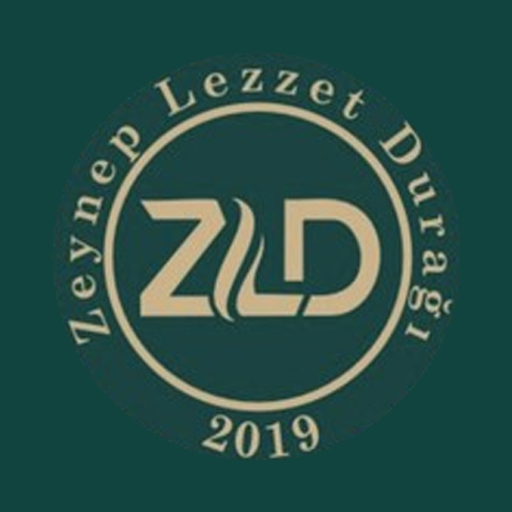
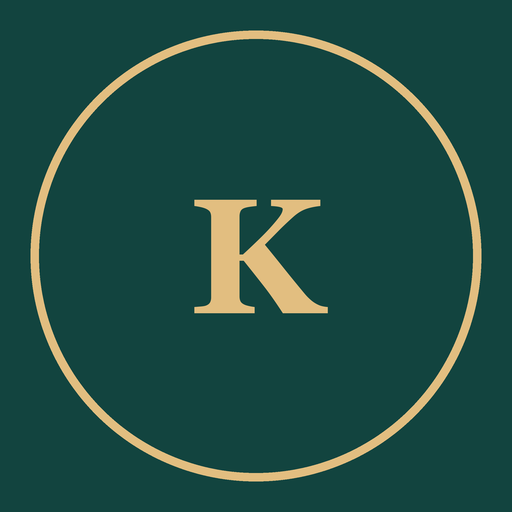
Anonymize the café demo
Replace the café's name, logo and app icons with a generic "Örnek Kafe",
remove its WhatsApp number, Instagram link and map search, and hide the
WhatsApp and directions buttons when no number or map link is set.

Changed region(s): [[0.0312, 0.0312, 0.9688, 0.9688]]

diff --git a/zld/siparis.html b/zld/siparis.html
@@ -1,7 +1,7 @@
 <!doctype html>
 <html lang="tr">
 <head>
-<meta name="zld-surum" content="202610041620">
+<meta name="zld-surum" content="202610062014">
 <meta charset="utf-8">
 <meta name="viewport" content="width=device-width, initial-scale=1, viewport-fit=cover">
 <meta name="theme-color" content="#12443f">
@@ -9,22 +9,22 @@
 <link rel="preconnect" href="https://fonts.googleapis.com">
 <link rel="preconnect" href="https://fonts.gstatic.com" crossorigin>
 <link href="https://fonts.googleapis.com/css2?family=Alegreya:wght@500;700;800&family=Figtree:wght@400;500;600;700&display=swap" rel="stylesheet">
-<link rel="stylesheet" href="ortak/app.css?v=202610041620">
+<link rel="stylesheet" href="ortak/app.css?v=202610062014">
 <script src="https://cdn.jsdelivr.net/npm/@supabase/supabase-js@2"></script>
-<script src="ortak/menu.js?v=202610041620"></script>
+<script src="ortak/menu.js?v=202610062014"></script>
 <link rel="manifest" href="manifest.webmanifest">
 <link rel="apple-touch-icon" href="apple-touch-icon.png">
-<title>Zeynep Lezzet Durağı | Gel Al</title>
+<title>Örnek Kafe | Gel Al</title>
 <meta name="robots" content="noindex">
-<meta name="description" content="Siparişinizi önceden verin, saatinizi seçin, Zeynep Lezzet Durağı'ndan hazır teslim alın.">
+<meta name="description" content="Siparişinizi önceden verin, saatinizi seçin, dükkândan hazır teslim alın.">
 </head>
 <body>
 <div class="wrap">
   <header class="top">
     <div class="brand">
-      <img src="logo.png" alt="Zeynep Lezzet Durağı logosu" width="68" height="68">
+      <img src="logo.png" alt="" width="68" height="68">
       <div>
-        <h1>Zeynep Lezzet Durağı</h1>
+        <h1>Örnek Kafe</h1>
         <p>Gel Al siparişi</p>
       </div>
     </div>
@@ -64,7 +64,7 @@
           <input id="jn" type="text" autocomplete="name" placeholder="Ayşe Yılmaz">
           <label for="jp">Telefon</label>
           <input id="jp" type="tel" inputmode="tel" autocomplete="tel" placeholder="05xx xxx xx xx">
-          <label class="consent"><input id="jc" type="checkbox"> <span>Kampanya ve indirimlerden WhatsApp/SMS ile haberdar olmak için adımın ve telefonumun Zeynep Lezzet Durağı tarafından saklanmasına <a href="kvkk.html#riza" target="_blank">açık rıza</a> veriyorum.</span></label>
+          <label class="consent"><input id="jc" type="checkbox"> <span>Kampanya ve indirimlerden WhatsApp/SMS ile haberdar olmak için adımın ve telefonumun işletme tarafından saklanmasına <a href="kvkk.html#riza" target="_blank">açık rıza</a> veriyorum.</span></label>
           <p class="err" id="jerr" role="alert"></p>
           <button class="btn-gold" type="submit">Kampanyalara katıl</button>
         </form>
@@ -73,7 +73,6 @@
 
       <footer class="foot">
         <p>Borcam kapları için 500 TL, baklava tepsileri için 200 TL depozito alınır. Kabı geri getirdiğinizde depozito iade edilir.</p>
-        <p><a href="https://wa.me/905444628015">WhatsApp: 0544 462 80 15</a> &nbsp; <a href="https://instagram.com/zeyneplezzetduragi">Instagram</a></p>
         <p class="foot-eve">Eve teslimat: <span id="footEve"></span></p>
       </footer>
   </main>
@@ -119,7 +118,7 @@
         <p class="dep" id="leadNote"></p>
       </fieldset>
 
-      <p class="pickup-warn">Bu sipariş adrese getirilmez. Seçtiğiniz saatte <b>Zeynep Lezzet Durağı'na gelip kendiniz alırsınız.</b></p>
+      <p class="pickup-warn">Bu sipariş adrese getirilmez. Seçtiğiniz saatte <b>dükkâna gelip kendiniz alırsınız.</b></p>
       <label for="on">Adınız</label>
       <input id="on" type="text" autocomplete="name">
       <label for="op">Telefonunuz</label>
@@ -288,6 +287,7 @@ function paintStatus(o){
   $("steps").querySelectorAll("li").forEach((li, i) => { li.className = i < idx ? "done" : i === idx ? "now" : ""; });
   const total = o.order_items.reduce((a, i) => a + i.price * i.qty, 0);
   $("okText").innerHTML = o.order_items.map(i => `${i.qty} × ${esc(itemLabel(i.name, i.option))}`).join("<br>") + `<br><b>Toplam ${tl(total)}</b>, ödeme teslimde.`;
+  $("okWa").hidden = !ZLD.WA; $("okWa").style.display = ZLD.WA ? "" : "none";
   $("okWa").href = `https://wa.me/${ZLD.WA}?text=${encodeURIComponent(`Merhaba, ${o.customer_name} adına ${slotLabel(o.pickup_time)} arası gel al siparişim var.`)}`;
 }
 async function showStatus(id){
@@ -314,7 +314,7 @@ $("okBack").onclick = () => { closeSheet(); $("okBox").hidden = true; $("orderFo
 
 $("gheroSteps").innerHTML = GELAL_ADIM;
 $("eve").innerHTML = teslimatHTML();
-$("gheroMap").href = $("okMap").href = ZLD.HARITA;
+if(ZLD.HARITA){ $("gheroMap").href = $("okMap").href = ZLD.HARITA; } else { $("gheroMap").style.display = $("okMap").style.display = "none"; }
 view.render(); updateBar();
 loadPrices().then(() => { view.render(); updateBar(); });
 watchPrices(() => { view.render(); updateBar(); });
@@ -330,7 +330,7 @@ function paintInstall(){
   $("insBody").innerHTML = installEvt
     ? `<p>Gel Al siparişlerinizi tek dokunuşla verin. Mağazadan indirmek gerekmez.</p><button type="button" class="btn gold" id="insGo">Ana ekrana ekle</button>`
     : isIOS()
-    ? `<ol><li>Ekranın altındaki ${share} <b>Paylaş</b> simgesine dokunun.</li><li>Listeden <b>Ana Ekrana Ekle</b>'yi seçin.</li><li>Sağ üstte <b>Ekle</b>'ye dokunun.</li></ol><p class="dep">Zeynep Lezzet simgesi ana ekranınıza gelir, uygulama gibi açılır.</p>`
+    ? `<ol><li>Ekranın altındaki ${share} <b>Paylaş</b> simgesine dokunun.</li><li>Listeden <b>Ana Ekrana Ekle</b>'yi seçin.</li><li>Sağ üstte <b>Ekle</b>'ye dokunun.</li></ol><p class="dep">Uygulama simgesi ana ekranınıza gelir, uygulama gibi açılır.</p>`
     : `<p>Tarayıcınızın menüsünü (sağ üstteki ⋮) açın ve <b>Ana ekrana ekle</b> ya da <b>Uygulamayı yükle</b>'yi seçin.</p>`;
 }
 $("install").addEventListener("click", async e => {

diff --git a/zld/index.html b/zld/index.html
@@ -1,7 +1,7 @@
 <!doctype html>
 <html lang="tr">
 <head>
-<meta name="zld-surum" content="202610041620">
+<meta name="zld-surum" content="202610062014">
 <meta charset="utf-8">
 <meta name="viewport" content="width=device-width, initial-scale=1, viewport-fit=cover">
 <meta name="theme-color" content="#12443f">
@@ -9,12 +9,12 @@
 <link rel="preconnect" href="https://fonts.googleapis.com">
 <link rel="preconnect" href="https://fonts.gstatic.com" crossorigin>
 <link href="https://fonts.googleapis.com/css2?family=Alegreya:wght@500;700;800&family=Figtree:wght@400;500;600;700&display=swap" rel="stylesheet">
-<link rel="stylesheet" href="ortak/app.css?v=202610041620">
+<link rel="stylesheet" href="ortak/app.css?v=202610062014">
 <script src="https://cdn.jsdelivr.net/npm/@supabase/supabase-js@2"></script>
-<script src="ortak/menu.js?v=202610041620"></script>
-<title>Zeynep Lezzet Durağı | Menü</title>
+<script src="ortak/menu.js?v=202610062014"></script>
+<title>Örnek Kafe | Menü</title>
 <meta name="robots" content="noindex">
-<meta name="description" content="Zeynep Lezzet Durağı menüsü ve güncel fiyatlar.">
+<meta name="description" content="Örnek kafe menüsü ve güncel fiyatlar.">
 <link rel="manifest" href="manifest.webmanifest">
 <link rel="apple-touch-icon" href="apple-touch-icon.png">
 </head>
@@ -22,10 +22,10 @@
 <div class="wrap">
   <header class="top">
     <div class="brand">
-      <img src="logo.png" alt="Zeynep Lezzet Durağı logosu" width="68" height="68">
+      <img src="logo.png" alt="" width="68" height="68">
       <div class="brand-t">
-        <h1>Zeynep Lezzet Durağı</h1>
-        <p>Sakarya ev yemekleri</p>
+        <h1>Örnek Kafe</h1>
+        <p>Ev yemekleri</p>
       </div>
       <span class="masa-plate" id="masaBadge" hidden><small>Masa</small><b id="masaNo"></b></span>
     </div>
@@ -58,7 +58,7 @@
           <input id="jn" type="text" autocomplete="name" placeholder="Ayşe Yılmaz">
           <label for="jp">Telefon</label>
           <input id="jp" type="tel" inputmode="tel" autocomplete="tel" placeholder="05xx xxx xx xx">
-          <label class="consent"><input id="jc" type="checkbox"> <span>Kampanya ve indirimlerden WhatsApp/SMS ile haberdar olmak için adımın ve telefonumun Zeynep Lezzet Durağı tarafından saklanmasına <a href="kvkk.html#riza" target="_blank">açık rıza</a> veriyorum.</span></label>
+          <label class="consent"><input id="jc" type="checkbox"> <span>Kampanya ve indirimlerden WhatsApp/SMS ile haberdar olmak için adımın ve telefonumun işletme tarafından saklanmasına <a href="kvkk.html#riza" target="_blank">açık rıza</a> veriyorum.</span></label>
           <p class="err" id="jerr" role="alert"></p>
           <button class="btn-gold" type="submit">Kampanyalara katıl</button>
         </form>
@@ -67,7 +67,6 @@
 
       <footer class="foot">
         <p>Borcam kapları için 500 TL, baklava tepsileri için 200 TL depozito alınır. Kabı geri getirdiğinizde depozito iade edilir.</p>
-        <p><a href="https://wa.me/905444628015">WhatsApp: 0544 462 80 15</a> &nbsp; <a href="https://instagram.com/zeyneplezzetduragi">Instagram</a></p>
         <p class="foot-eve">Eve teslimat: <span id="footEve"></span></p>
       </footer>
   </main>

diff --git a/zld/siparis-yukle.html b/zld/siparis-yukle.html
@@ -1,7 +1,7 @@
 <!doctype html>
 <html lang="tr">
 <head>
-<meta name="zld-surum" content="202610041620">
+<meta name="zld-surum" content="202610062014">
 <meta charset="utf-8">
 <meta name="viewport" content="width=device-width, initial-scale=1, viewport-fit=cover">
 <meta name="theme-color" content="#12443f">
@@ -9,12 +9,12 @@
 <link rel="preconnect" href="https://fonts.googleapis.com">
 <link rel="preconnect" href="https://fonts.gstatic.com" crossorigin>
 <link href="https://fonts.googleapis.com/css2?family=Alegreya:wght@500;700;800&family=Figtree:wght@400;500;600;700&display=swap" rel="stylesheet">
-<link rel="stylesheet" href="ortak/app.css?v=202610041620">
+<link rel="stylesheet" href="ortak/app.css?v=202610062014">
 <script src="https://cdn.jsdelivr.net/npm/@supabase/supabase-js@2"></script>
-<script src="ortak/menu.js?v=202610041620"></script>
+<script src="ortak/menu.js?v=202610062014"></script>
 <link rel="manifest" href="manifest.webmanifest">
 <link rel="apple-touch-icon" href="apple-touch-icon.png">
-<title>ZLD Gel Al | Uygulamayı ekleyin</title>
+<title>Gel Al | Uygulamayı ekleyin</title>
 <meta name="robots" content="noindex">
 <script>
   // uygulama içinden açıldıysa anlatıma gerek yok
@@ -25,8 +25,8 @@
 <header class="yk-top">
   <img src="ikon-192.png" alt="" width="72" height="72">
   <div>
-    <h1>ZLD Gel Al</h1>
-    <p>Zeynep Lezzet Durağı'nın sipariş uygulaması</p>
+    <h1>Gel Al</h1>
+    <p>Kafenin sipariş uygulaması</p>
   </div>
 </header>
 
@@ -56,7 +56,7 @@
       <li><span class="yk-ill"><svg viewBox="0 0 24 24" aria-hidden="true"><rect x="4" y="4" width="16" height="16" rx="4"/><path d="M12 8v8M8 12h8"/></svg></span>
         <div><b>"Ana Ekrana Ekle"yi seçin</b><span>Açılan listeyi biraz aşağı kaydırın, bu seçeneği orada bulursunuz.</span></div></li>
       <li><span class="yk-ill yk-txt">Ekle</span>
-        <div><b>Sağ üstte "Ekle"ye dokunun</b><span>Adı "ZLD Gel Al" olarak gelir, değiştirmenize gerek yok.</span></div></li>
+        <div><b>Sağ üstte "Ekle"ye dokunun</b><span>Adı "Gel Al" olarak gelir, değiştirmenize gerek yok.</span></div></li>
       <li><span class="yk-ill yk-icon"><img src="ikon-192.png" alt=""></span>
         <div><b>Ana ekranınızdaki simgeden açın</b><span>Artık uygulama gibi tam ekran açılır, doğrudan sipariş sayfasına gider.</span></div></li>
     </ol>
@@ -74,7 +74,7 @@
 
     <div class="yk-done" id="ykDone" hidden role="status">
       <b>Uygulama telefonunuza eklendi.</b>
-      <span>Ana ekranınızdaki "ZLD Gel Al" simgesine dokunarak açabilirsiniz.</span>
+      <span>Ana ekranınızdaki "Gel Al" simgesine dokunarak açabilirsiniz.</span>
     </div>
   </section>
 

diff --git a/zld/yonetim.html b/zld/yonetim.html
@@ -1,7 +1,7 @@
 <!doctype html>
 <html lang="tr">
 <head>
-<meta name="zld-surum" content="202610041620">
+<meta name="zld-surum" content="202610062014">
 <meta charset="utf-8">
 <meta name="viewport" content="width=device-width, initial-scale=1, viewport-fit=cover">
 <meta name="theme-color" content="#12443f">
@@ -9,11 +9,11 @@
 <link rel="preconnect" href="https://fonts.googleapis.com">
 <link rel="preconnect" href="https://fonts.gstatic.com" crossorigin>
 <link href="https://fonts.googleapis.com/css2?family=Alegreya:wght@500;700;800&family=Figtree:wght@400;500;600;700&display=swap" rel="stylesheet">
-<link rel="stylesheet" href="ortak/app.css?v=202610041620">
+<link rel="stylesheet" href="ortak/app.css?v=202610062014">
 <script src="https://cdn.jsdelivr.net/npm/@supabase/supabase-js@2"></script>
-<script src="ortak/menu.js?v=202610041620"></script>
+<script src="ortak/menu.js?v=202610062014"></script>
 <script src="https://cdnjs.cloudflare.com/ajax/libs/qrcodejs/1.0.0/qrcode.min.js"></script>
-<title>ZLD | Yönetim</title>
+<title>Kafe | Yönetim</title>
 <meta name="robots" content="noindex">
 </head>
 <body>
@@ -74,7 +74,7 @@
     </form>
     <h3 style="margin-top:24px">WhatsApp ile gönder</h3>
     <label for="cmsg" style="font-weight:600;display:block;margin-bottom:8px">Mesaj</label>
-    <textarea id="cmsg">Merhaba {ad}, Zeynep Lezzet Durağı'ndan selamlar! Bu hafta sonu tepsi böreklerde %10 indirim var. Siparişiniz için bu mesaja yanıt verebilirsiniz.</textarea>
+    <textarea id="cmsg">Merhaba {ad}, kafemizden selamlar! Bu hafta sonu tepsi böreklerde %10 indirim var. Siparişiniz için bu mesaja yanıt verebilirsiniz.</textarea>
     <p class="note">{ad} yazan yere müşterinin adı gelir. Bir isme dokunduğunuzda WhatsApp'ta mesaj hazır açılır, gönder tuşuna siz basarsınız.</p>
     <div class="sendlist" id="sendlist"></div>
   </div>

diff --git a/zld/kvkk.html b/zld/kvkk.html
@@ -1,7 +1,7 @@
 <!doctype html>
 <html lang="tr">
 <head>
-<meta name="zld-surum" content="202610041620">
+<meta name="zld-surum" content="202610062014">
 <meta charset="utf-8">
 <meta name="viewport" content="width=device-width, initial-scale=1, viewport-fit=cover">
 <meta name="theme-color" content="#12443f">
@@ -9,10 +9,10 @@
 <link rel="preconnect" href="https://fonts.googleapis.com">
 <link rel="preconnect" href="https://fonts.gstatic.com" crossorigin>
 <link href="https://fonts.googleapis.com/css2?family=Alegreya:wght@500;700;800&family=Figtree:wght@400;500;600;700&display=swap" rel="stylesheet">
-<link rel="stylesheet" href="ortak/app.css?v=202610041620">
+<link rel="stylesheet" href="ortak/app.css?v=202610062014">
 <script src="https://cdn.jsdelivr.net/npm/@supabase/supabase-js@2"></script>
-<script src="ortak/menu.js?v=202610041620"></script>
-<title>Zeynep Lezzet Durağı | Kişisel veriler</title>
+<script src="ortak/menu.js?v=202610062014"></script>
+<title>Örnek Kafe | Kişisel veriler</title>
 <meta name="robots" content="noindex">
 </head>
 <body>
@@ -27,7 +27,7 @@
   <p>6698 sayılı Kişisel Verilerin Korunması Kanunu (KVKK) uyarınca, kişisel verilerinizi nasıl kullandığımızı aşağıda açıklıyoruz.</p>
 
   <h2>Veri sorumlusu</h2>
-  <p>Zeynep Lezzet Durağı, [işletme unvanı], [açık adres], Sakarya. İletişim: WhatsApp 0544 462 80 15.</p>
+  <p>[İşletme adı], [işletme unvanı], [açık adres]. İletişim: [telefon].</p>
 
   <h2>Hangi verileri işliyoruz</h2>
   <p>Gel Al siparişlerinde adınız, telefon numaranız, sipariş içeriğiniz, seçtiğiniz teslim saati ve yazdığınız not. Masadan QR ile sipariş verirken yazdığınız isim yalnızca siparişin size ait olduğunu göstermek için kullanılır.</p>

diff --git a/zld/mutfak.html b/zld/mutfak.html
@@ -1,7 +1,7 @@
 <!doctype html>
 <html lang="tr">
 <head>
-<meta name="zld-surum" content="202610041620">
+<meta name="zld-surum" content="202610062014">
 <meta charset="utf-8">
 <meta name="viewport" content="width=device-width, initial-scale=1, viewport-fit=cover">
 <meta name="theme-color" content="#12443f">
@@ -9,10 +9,10 @@
 <link rel="preconnect" href="https://fonts.googleapis.com">
 <link rel="preconnect" href="https://fonts.gstatic.com" crossorigin>
 <link href="https://fonts.googleapis.com/css2?family=Alegreya:wght@500;700;800&family=Figtree:wght@400;500;600;700&display=swap" rel="stylesheet">
-<link rel="stylesheet" href="ortak/app.css?v=202610041620">
+<link rel="stylesheet" href="ortak/app.css?v=202610062014">
 <script src="https://cdn.jsdelivr.net/npm/@supabase/supabase-js@2"></script>
-<script src="ortak/menu.js?v=202610041620"></script>
-<title>ZLD | Mutfak</title>
+<script src="ortak/menu.js?v=202610062014"></script>
+<title>Kafe | Mutfak</title>
 <meta name="robots" content="noindex">
 </head>
 <body>
@@ -231,7 +231,7 @@ function render(fresh = new Set()){
   $("board").innerHTML = mode === "mutfak" ? kitchenHTML(fresh) : tillHTML();
   const act = $("board").querySelectorAll(".kcard").length || orders.filter(o => o.items.some(i => cooks(o, i)) && !(o.kind !== "masa" && dueOf(o) !== null && dueOf(o) - Date.now() > 3 * 3600000)).length;
   runAlarms();
-  document.title = (mode === "mutfak" ? (alarms.length ? "⚠ " : "") + (act ? `(${act}) ` : "") + "ZLD | Mutfak" : "ZLD | Kasa");
+  document.title = (mode === "mutfak" ? (alarms.length ? "⚠ " : "") + (act ? `(${act}) ` : "") + "Kafe | Mutfak" : "Kafe | Kasa");
 }
 
 function togglePick(li){

diff --git a/zld/kasa.html b/zld/kasa.html
@@ -1,7 +1,7 @@
 <!doctype html>
 <html lang="tr">
 <head>
-<meta name="zld-surum" content="202610041620">
+<meta name="zld-surum" content="202610062014">
 <meta charset="utf-8">
 <meta name="viewport" content="width=device-width, initial-scale=1, viewport-fit=cover">
 <meta name="theme-color" content="#12443f">
@@ -9,10 +9,10 @@
 <link rel="preconnect" href="https://fonts.googleapis.com">
 <link rel="preconnect" href="https://fonts.gstatic.com" crossorigin>
 <link href="https://fonts.googleapis.com/css2?family=Alegreya:wght@500;700;800&family=Figtree:wght@400;500;600;700&display=swap" rel="stylesheet">
-<link rel="stylesheet" href="ortak/app.css?v=202610041620">
+<link rel="stylesheet" href="ortak/app.css?v=202610062014">
 <script src="https://cdn.jsdelivr.net/npm/@supabase/supabase-js@2"></script>
-<script src="ortak/menu.js?v=202610041620"></script>
-<title>ZLD | Kasa</title>
+<script src="ortak/menu.js?v=202610062014"></script>
+<title>Kafe | Kasa</title>
 <meta name="robots" content="noindex">
 </head>
 <body>
@@ -231,7 +231,7 @@ function render(fresh = new Set()){
   $("board").innerHTML = mode === "mutfak" ? kitchenHTML(fresh) : tillHTML();
   const act = $("board").querySelectorAll(".kcard").length || orders.filter(o => o.items.some(i => cooks(o, i)) && !(o.kind !== "masa" && dueOf(o) !== null && dueOf(o) - Date.now() > 3 * 3600000)).length;
   runAlarms();
-  document.title = (mode === "mutfak" ? (alarms.length ? "⚠ " : "") + (act ? `(${act}) ` : "") + "ZLD | Mutfak" : "ZLD | Kasa");
+  document.title = (mode === "mutfak" ? (alarms.length ? "⚠ " : "") + (act ? `(${act}) ` : "") + "Kafe | Mutfak" : "Kafe | Kasa");
 }
 
 function togglePick(li){

diff --git a/zld/ortak/menu.js b/zld/ortak/menu.js
@@ -1,4 +1,4 @@
-/* Zeynep Lezzet Durağı: ortak menü verisi ve yardımcılar */
+/* Kafe demosu: ortak menü verisi ve yardımcılar */
 // [ad, açıklama, [[seçenek, fiyat], ...]]
 const MENU = [
  {id:"kahvalti", ad:"Kahvaltı", hint:"Her sabah, ev yapımı reçel ve sıcak ekmekle.", items:[
@@ -129,14 +129,14 @@ const MENU = [
 
 /* ===== Ayarlar ===== */
 const ZLD = {
-  WA: "905444628015",
+  WA: "",               // işletmenin WhatsApp numarası (90 ile); boşsa düğme gizlenir
   // Eve teslimat isteyenler için platform sayfaları; url boşsa platformun ana sayfası açılır
   PLATFORMLAR: [
     {ad:"Yemeksepeti", renk:"#ea004b", url:"", ana:"https://www.yemeksepeti.com"},
     {ad:"Trendyol Go", renk:"#f27a1a", url:"", ana:"https://www.trendyol.com/yemek"},
     {ad:"Uber Eats", renk:"#06c167", url:"", ana:"https://www.ubereats.com/tr"}
   ],
-  HARITA: "https://www.google.com/maps/search/?api=1&query=Zeynep+Lezzet+Dura%C4%9F%C4%B1+Sakarya",
+  HARITA: "",           // yol tarifi linki; boşsa gizlenir
   MASA_SAYISI: 12,
   SB_URL: "https://utniaprnvwakwfsumner.supabase.co",
   SB_KEY: "sb_publishable_LnGWWoHPM5692YmL1o-IzA_vuhx1BKV",

diff --git a/zld/garson.html b/zld/garson.html
@@ -1,7 +1,7 @@
 <!doctype html>
 <html lang="tr">
 <head>
-<meta name="zld-surum" content="202610041620">
+<meta name="zld-surum" content="202610062014">
 <meta charset="utf-8">
 <meta name="viewport" content="width=device-width, initial-scale=1, viewport-fit=cover">
 <meta name="theme-color" content="#12443f">
@@ -9,10 +9,10 @@
 <link rel="preconnect" href="https://fonts.googleapis.com">
 <link rel="preconnect" href="https://fonts.gstatic.com" crossorigin>
 <link href="https://fonts.googleapis.com/css2?family=Alegreya:wght@500;700;800&family=Figtree:wght@400;500;600;700&display=swap" rel="stylesheet">
-<link rel="stylesheet" href="ortak/app.css?v=202610041620">
+<link rel="stylesheet" href="ortak/app.css?v=202610062014">
 <script src="https://cdn.jsdelivr.net/npm/@supabase/supabase-js@2"></script>
-<script src="ortak/menu.js?v=202610041620"></script>
-<title>ZLD | Garson</title>
+<script src="ortak/menu.js?v=202610062014"></script>
+<title>Kafe | Garson</title>
 <meta name="robots" content="noindex">
 </head>
 <body class="staff">
